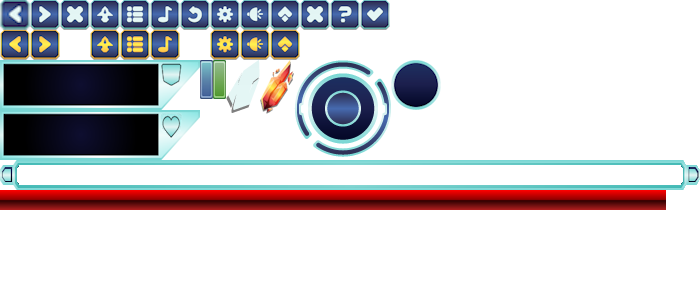
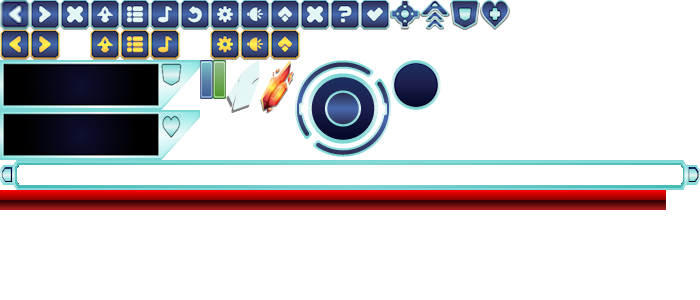
Some UI

Changed region(s): [[0.54, 0.0, 0.75, 0.12]]

diff --git a/src/ControlPanel.java b/src/ControlPanel.java
@@ -25,7 +25,16 @@ public class ControlPanel extends JPanel{
 
     private InputListener listener;
     private BufferedImage console;
-    
+    private BufferedImage UI_SS;
+    private SpriteSheet UI;
+
+    private BufferedImage joystickBase;
+    private BufferedImage joystick;
+    private BufferedImage[] icons;
+    private BufferedImage healthBar;
+    private BufferedImage armorBar;
+    private BufferedImage healthDot;
+    private BufferedImage armorDot;
 
     public ControlPanel(InputHolder input) {
         //Initialize
@@ -46,9 +55,34 @@ public class ControlPanel extends JPanel{
 
         try {
             console = loader.load("res/Console.png");
+            UI_SS = loader.load("res/UISheet.png");
         } catch(IOException e) {
             e.printStackTrace();
         }
+
+        //Load onscreen joystick
+        UI = new SpriteSheet(UI_SS, 97, 97, 294, 60);
+        joystickBase = UI.getSprite(1, 1);
+        UI.setPointer(50, 50, 391, 60);
+        joystick = UI.getSprite(1, 1);
+
+        //Load icons
+        icons = new BufferedImage[17];
+        UI.setPointer(30, 30, 0, 0);
+
+        for(int i = 1; i <= icons.length; i++) {
+            icons[i-1] = UI.getSprite(i, 1);
+        }
+
+        //Load bars
+        UI.setPointer(200, 50, 0, 60);
+        healthBar = UI.getSprite(1, 2);
+        armorBar = UI.getSprite(1, 1);
+
+        //Load fill dots for bars
+        UI.setPointer(13, 39, 200, 60);
+        healthDot = UI.getSprite(2, 1);
+        armorDot = UI.getSprite(1, 1);
     }
 
     public void paintComponent(Graphics g) {
@@ -56,9 +90,10 @@ public class ControlPanel extends JPanel{
        
         Graphics2D brush = (Graphics2D)g.create();
 
-        if(console != null) {
-            g.drawImage(console, 0, 0, null);
-        }
+        g.drawImage(console, 0, 0, null);
+        g.drawImage(joystickBase, WIDTH/2-joystickBase.getWidth()/2, HEIGHT/2-joystickBase.getHeight()/2, null);
+        g.drawImage(joystick, WIDTH/2-joystick.getWidth()/2, HEIGHT/2-joystick.getHeight()/2, null);
+        g.drawImage(healthBar, 200, 0, null);
     }
     
 

diff --git a/src/SpriteSheet.java b/src/SpriteSheet.java
@@ -38,9 +38,19 @@ public class SpriteSheet {
         this.yOffset = yOffset;
     }
 
+    public void setSpriteSize(int width, int height) {
+        this.sWidth = width;
+        this.sHeight = height;
+    }
+
     public void setOffset(int xOffset, int yOffset) {
         this.xOffset = xOffset;
         this.yOffset = yOffset;
+    }
+
+    public void setPointer(int width, int height, int x, int y) {
+        setSpriteSize(width, height);
+        setOffset(x, y);
     }
 
     public BufferedImage getSprite(int col, int row) {
